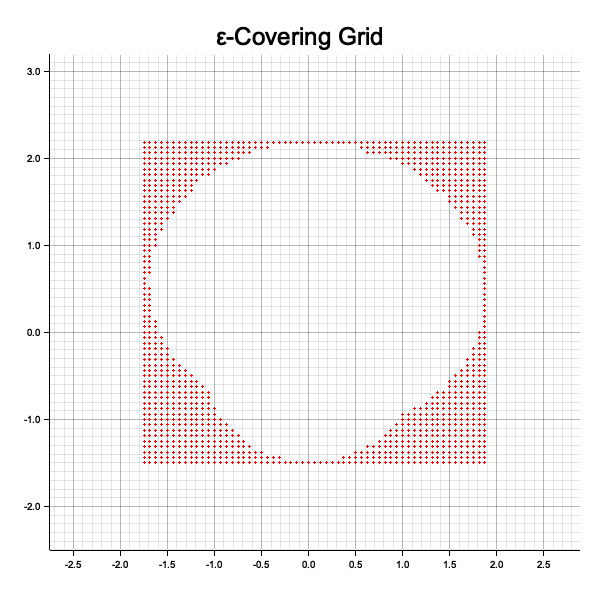
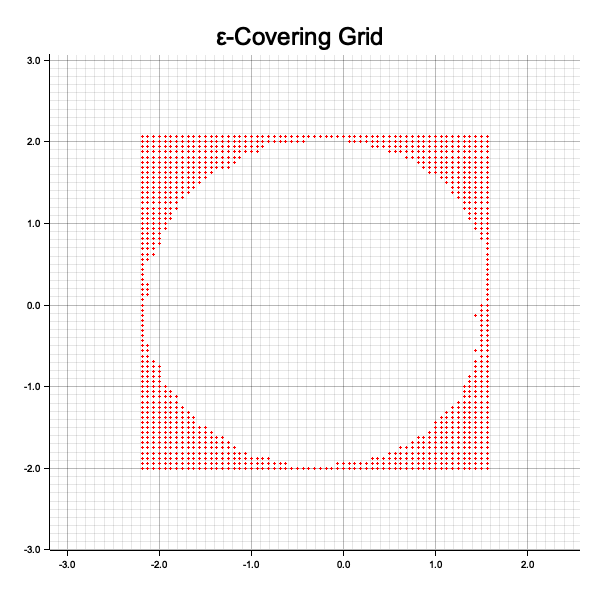
tests

diff --git a/src/main.rs b/src/main.rs
@@ -7,57 +7,80 @@ use landau::plot::{self, plot_covering_grid, plot_set};
 use landau::holomorphic::{
     comp_vec_to_sequence, vec_to_sequence, BoundingSequence, ComplexFunction, ExpansionCoefficients,
 };
-use landau::psi::{mu_first, mu_second, psi_infinity};
-use landau::plot::{self, plot_set, plot_covering_grid} ;
-
+use landau::psi::{generate_all_words, generate_word, mu_first, mu_second, psi_infinity};
 use plotters::prelude::*;
 
 use std::collections::LinkedList;
+use std::vec;
 
 fn evaluate_function(f : &Vec<ComplexDyadic>, delta : Dyadic, disk : &Vec<ComplexDyadic>) -> Option<f64> {
-    let m_seq = vec![Dyadic::new(1, -1), Dyadic::new(1, -1)] ; // no role for now
+    let m_seq = vec![Dyadic::new(1, -1), Dyadic::new(1, -1), Dyadic::new(1, -1)] ; // no role for now
     let complex = ComplexFunction::new(
         BoundingSequence::new(m_seq),
         ExpansionCoefficients::new(f.clone()),
     );
+    let integral = complex.antiderivative();
     let mut image = Vec::new() ;
     for x in disk {
-        image.push(complex.eval(*x))
+        image.push(integral.eval(*x))
     }
     let grid = create_covering_grid(&image, delta.clone()* Dyadic::new(4, 0), delta.clone()) ;
     grid_approx(&grid, delta)
 } 
 fn main()-> Result<(), Box<dyn std::error::Error>>
 {   
-    let x = Dyadic::new(1, -1) ;
-    let m_seq = vec![x.clone(), x.clone()] ;
-    let t_seq = vec![0, 1, 0, 1, 2, 0, 1, 2, 2, 0, 1, 2, 3, 0, 1, 2, 3, 0];
-    let word = vec![1, 1, 1, 3, 2, 1, 3, 1, 2, 3, 1, 2, 3, 1, 3, 2, 1, 2, 3, 2];
-    let holo = psi_infinity(&m_seq, &t_seq, &word);
-    for t in &holo{
-        println!("{}", t)
+    let len_5 = generate_all_words(4) ;
+    let mut min = 5.0 ;
+    let points2 = unit_disk_n(-5);
+    let mut word_min = vec![] ;
+    for i in 0..50 {
+        let m_seq = vec![Dyadic::new(1, -1), Dyadic::new(1, -1)] ;
+        let t_seq = vec![0, 1, 0, 1, 2, 0, 1, 2, 2, 0, 1, 2, 3, 0, 1, 2, 3, 0];
+        let word = generate_word(20);
+        let holo1 = psi_infinity(&m_seq, &t_seq, &word) ;
+        let val = evaluate_function(&holo1, Dyadic::new(1, -3), &points2).unwrap();
+        
+        if  val < min {
+            min = val ;
+            word_min = word
+        }
     }
-    println!("done") ;
-    let points1 = unit_disk_n(-6);
+    println!("{}, {:?}", min, word_min) ;
+    word_min = vec![1, 2, 1] ;
+    let m_seq1 = vec![Dyadic::new(1, -1), Dyadic::new(1, -1), Dyadic::new(1, -1)] ;
+    let t_seq1 = vec![0, 1, 0, 1, 2, 0, 1, 2, 2, 0, 1, 2, 3, 0, 1, 2, 3, 0];
+    // let min_func: Vec<ComplexDyadic> = psi_infinity(&m_seq1, &t_seq1, &word_min) ;
+    let min_func: Vec<ComplexDyadic> = vec![ComplexDyadic::zero(), ComplexDyadic::one()*ComplexDyadic::new(Dyadic::new(1, -4), Dyadic::zero()), ComplexDyadic::zero()] ;
+    for z in min_func.clone() {
+        println!("{z}")
+    }
+    println!("done with vector") ;
+    let mut min_im: Vec<_> = Vec::new() ;
 
-    let f = ComplexFunction::new(
-        BoundingSequence::new(m_seq),
-        ExpansionCoefficients::new(holo),
+
+    let disk = unit_disk_n(-5) ;
+    let min_complex = ComplexFunction::new(
+        BoundingSequence::new(m_seq1),
+        ExpansionCoefficients::new(min_func.clone()),
     );
-    let mut points2 = Vec::new() ;
-    for x in &points1 {
-        points2.push(f.eval(*x))
+    let min_integral = min_complex.antiderivative();
+    for x in &disk {
+        min_im.push(min_complex.eval(*x))
     }    ;
-    let grid = create_covering_grid(&points2, Dyadic::new(1, -2), Dyadic::new(1, -4)) ;
-    plot_set(&points2, "image2.png") ;
-    plot_covering_grid(&grid, "covering_grid.png")?;
-    plot_covering_grid(&grid_complement(&grid, Dyadic::new(1, -4)), "complement.png")?;
-    println!("approximation is {}", grid_approx(&grid, Dyadic::new(1, -4)).unwrap()) ;
-    let m_seq1 = vec![x.clone(), x.clone()] ;
-
-    let holo1 = psi_infinity(&m_seq1, &t_seq, &word);
-
-    println!("new approx {}", evaluate_function(&holo1, Dyadic::new(1, -4), &points1).unwrap()) ;
+    plot_set(&min_im, "min_image.png") ;
+    let min_grid = create_covering_grid(&min_im, Dyadic::new(1, -2), Dyadic::new(1, -3)) ;
+    plot_covering_grid(&min_grid, "min_grid.png") ;
+    
+    // println!("{}", evaluate_function(&min_func, Dyadic::new(1, -3), &disk).unwrap()) ;
+    
+    for c in min_complex.expansion_coefficients.vector {
+            println!("{}", c)
+        }
+    println!("done with first complex function") ;
+    for x in min_integral.expansion_coefficients.vector {
+        println!("{}", x)
+    }
+    
     Ok(())
 }
 // add these to tests!!!

diff --git a/src/dyadic.rs b/src/dyadic.rs
@@ -166,19 +166,10 @@ impl ComplexDyadic {
         let im = self.im.to_f64();
         return (real * real + im * im).sqrt();
     }
-
     // Add fast powering
     pub fn powi(self, power: i32) -> Self {
         if power == 0 {
             return ComplexDyadic::one();
-        }
-
-        let mut result = ComplexDyadic::one();
-        for _ in 0..power {
-            // println!("{result}");
-            result = result * self;
-        }
-        result
         } else if power < 0 {
             // If you want to support negative powers, handle here.
             // For example, use self.inverse().powi(-power)
@@ -197,7 +188,7 @@ impl ComplexDyadic {
         }
 
         fast_pow(self, power)
-    }
+    }    
 
     pub fn one() -> ComplexDyadic {
         ComplexDyadic::new(Dyadic::new(1, 0), Dyadic::new(0, 0))

diff --git a/src/psi.rs b/src/psi.rs
@@ -57,7 +57,6 @@ fn select_matching(n: u32, vec1: &Vec<u32>, vec2: &Vec<u8>) -> Vec<u8> {
 
 pub fn psi_infinity(m_seq: &Vec<Dyadic>, t_seq: &Vec<u32>, word: &Vec<u8>) -> Vec<ComplexDyadic> {
     let mut out = Vec::new();
-    out.push(ComplexDyadic::new(Dyadic::new(0, 0), Dyadic::new(0, 0)));
     out.push(ComplexDyadic::new(Dyadic::new(1, 0), Dyadic::new(0, 0)));
     for n in 0..m_seq.len() {
         let word_on_step = select_matching(n as u32, t_seq, word);

diff --git a/src/plot.rs b/src/plot.rs
@@ -59,7 +59,6 @@ pub fn plot_covering_grid(grid: &HashSet<ComplexDyadic>, filename: &str) -> Resu
             Circle::new((x, y), 1, RED.filled())
         })
     )?;
-    println!("{}", grid.len()) ;
     println!("Grid plotted to {}", filename);
     Ok(())
 }
